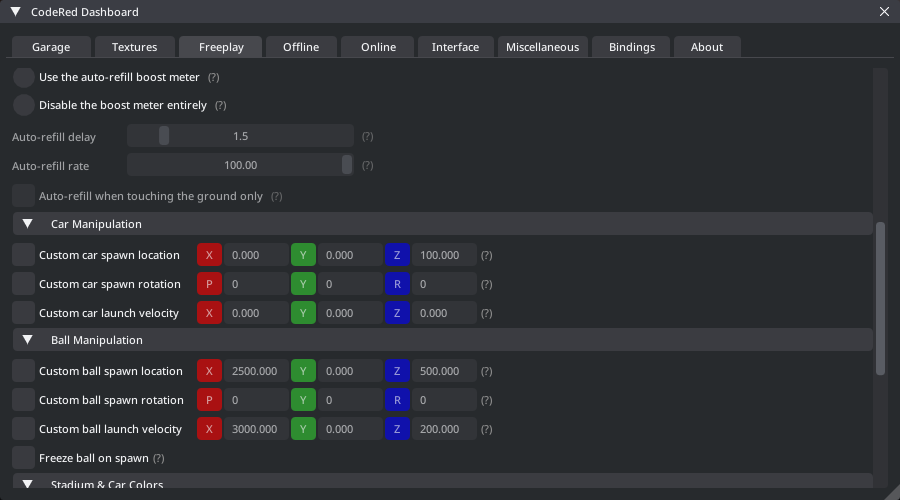
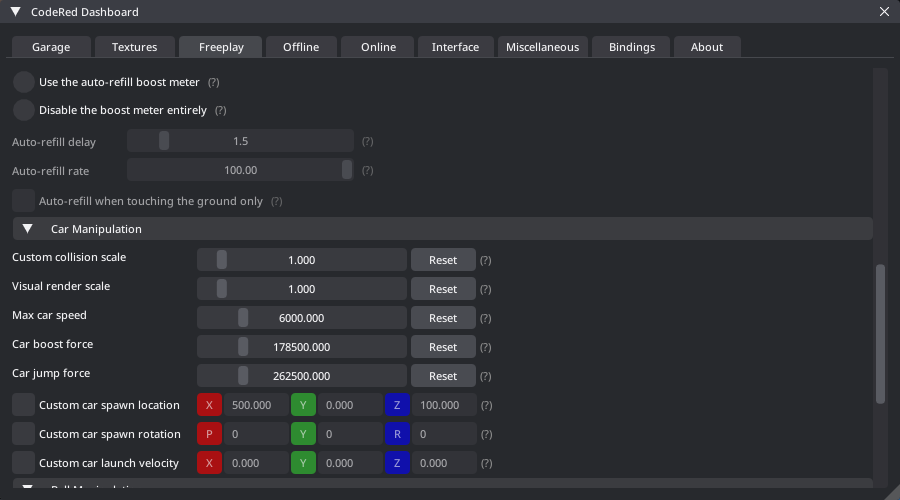
Initial Commit

diff --git a/changelog.html b/changelog.html
@@ -53,6 +53,7 @@
 		    <nav id="docs-nav" class="docs-nav navbar">
 			    <ul class="section-items list-unstyled nav flex-column pb-3">
                     <li class="nav-item section-title mt-3"><a class="nav-link scrollto" href="#section-3"><span class="theme-icon-holder me-2"><i class="fas fa-book"></i></span>Changelog (Beta)</a></li>
+                    <li class="nav-item"><a class="nav-link scrollto" href="#item-3-1-3">Version 2.1.3</a></li>
                     <li class="nav-item"><a class="nav-link scrollto" href="#item-3-1-2">Version 2.1.2</a></li>
                     <li class="nav-item"><a class="nav-link scrollto" href="#item-3-1-1">Version 2.1.1</a></li>
                     <li class="nav-item"><a class="nav-link scrollto" href="#item-3-1-0">Version 2.1.0</a></li>
@@ -213,6 +214,13 @@
 		    <div class="container">
                 <article class="docs-article" id="section-3">
                     <h1 class="docs-heading">Changelog (Beta)</h1>
+
+                        <section class="docs-section" id="item-3-1-3">
+                            <h2 class="section-heading">Version 2.1.3 (April 26th 2024)</h2>
+                            <h5>- Added "collision scale", "visual scale", and "max speed" settings for both your car and the ball in freeplay.</h5>
+                            <h5>- Added "boost force" and "jump force" settings for your car in freeplay.</h5>
+                            <h5>- Lots of internal code refactoring and improvements.</h5>
+                        </section>
 
                         <section class="docs-section" id="item-3-1-2">
                             <h2 class="section-heading">Version 2.1.2 (April 16th 2024)</h2>
